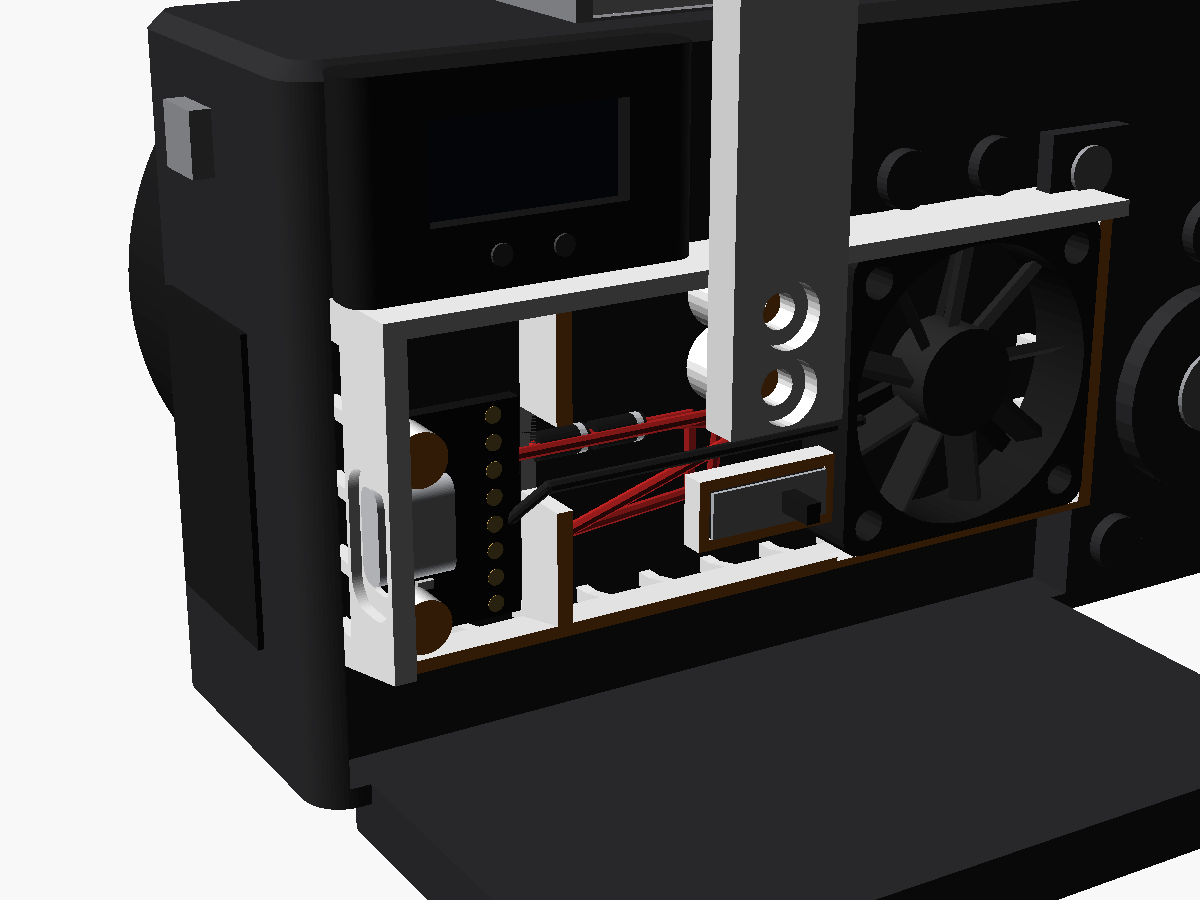
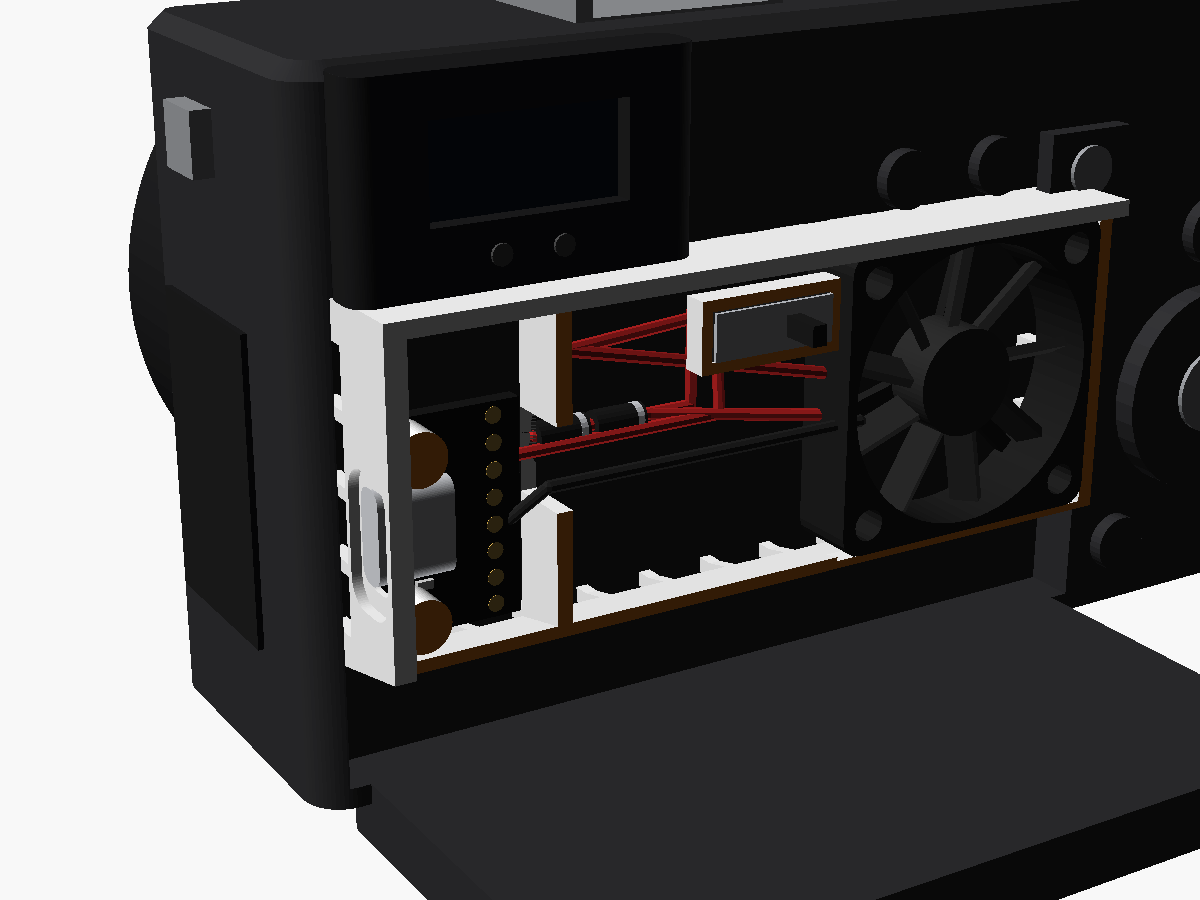
Sony a6300 fan box: switch into the uncovered top band, arm mount optional
The tilted screen covers the lower front, so the slide switch moves up into
the top band left of the fan. The arm's screw bosses are off by default
(the screen clamps the box for now); the arm file turns them on and warns
that they collide with the switch. HANDOFF.md: insertion is sideways or with
the screen down, one-piece slide-in ruled out.

Changed region(s): [[0.4625, 0.0, 0.74, 0.6222], [0.4625, 0.4667, 0.4933, 0.4978]]

diff --git a/sony-a6300-fan/HANDOFF.md b/sony-a6300-fan/HANDOFF.md
@@ -32,11 +32,9 @@ It needs 5 V from USB-C and has Low / Off / High.
    screen, open at both sides. The renders don't show this: `a6300-camera.scad` draws the screen flipped flat
    because its linkage isn't modelled.
    Consequences:
-   - **Switch.** It sits low on the front next to the fan (`sw_zc = 11`), where the screen hides it. It must
-     move: to the left side (cable side), or into the top band.
-     - The left side is out with the current USB-C board: the Adafruit 4090 is 20.3 mm tall and the
-       switch needs about 15 mm more.
-     - So the left side needs a smaller board with the connector on its short edge and 5.1 kΩ on CC1/CC2.
+   - **Switch.** Moved into the top band, left of the fan, 7 mm below the top (`sw_from_top`). There the
+     screen doesn't cover it, and it is about 7 mm right of the eyepiece's edge. Check on the camera that a
+     finger reaches it without touching the eyepiece cup.
    - **Fan intake.** Only the top ~13 mm of the grille is in free air. The rest draws through the wedge under
      the screen. Airflow will be lower than the fan's rating, by an unknown amount. Keep the grille above
      the line where the screen rests.
@@ -46,22 +44,21 @@ It needs 5 V from USB-C and has Low / Off / High.
    than 5.2 mm from the plate: on the right end and along the bottom. Keep them away from the wedge under
    the screen so the fan doesn't pull its own warm air back in.
 3. **Holding it on the camera is not settled.**
+   - **The screen limits how the box goes in.** In the photos the screen is tilted up as far as it goes, and
+     that still doesn't leave room to push the box straight toward the plate. So the box goes in sideways
+     or with the screen down. Once it's in, flip the screen up and it clamps the box.
    - **Current plan, no holder:** the tilted-up screen presses the box against the plate, and the recess
-     walls and the eyepiece stop it moving sideways and up. That means shooting with the screen up.
+     walls and the eyepiece stop it moving sideways and up. You shoot with the screen up. The arm's screw
+     bosses are off (`arm_mount = false`).
      - **Risk:** it falls out when the screen is moved.
      - **Cheap backup:** a thin micro-suction or removable adhesive pad on the box's back feet, or a cord
        to a strap lug.
    - **Option: screwed shoe arm** (`sony-a6300-fan-arm.scad`). The foot goes in the flash shoe, a bridge
-     runs over the top, and a tab screws to the box's front in the top band (2 × M3 into heat-set inserts).
-     It works, but it's two parts and screws.
-   - **Option, not built yet: one-piece slide-in.** The arm is part of the box: the front plate continues
-     up as a flat strip, then a bridge and a foot.
-     - **How it goes on:** the shoe and the recess are entered in the same direction. Push the whole thing
-       toward the lens; the foot slides into the shoe as the box seats on the plate, and the plate is the
-       stop.
-     - **Printing:** front face down, arm flat on the bed, bridge rising as a column. The foot needs a 45°
-       lead-in. The bridge's layers run across its load, so make it thick (about 12 × 6).
-     - **Needs checking:** that the screen can be held out of the way while sliding it in.
+     runs over the top, and a tab screws to the box's front in the top band. The arm file turns the
+     bosses on, but they collide with the switch's new spot (the file warns). One of them must move first.
+   - **Ruled out: a one-piece slide-in** (arm built into the box, pushed toward the lens so the foot enters
+     the shoe as the box seats). The screen can't get far enough out of the way. A one-piece holder would
+     need a sideways entry, e.g. a dovetail.
 4. **Positions read from photos are ±2 mm.** Shoe centre ~41 mm from the eyepiece-side end, flash and MENU
    buttons ~62 and ~73 mm, recess right edge ~87 mm. They matter for the arm only.
 5. **Fan noise and airflow aren't verified.**
@@ -89,9 +86,8 @@ Render with the CI image (see the repo's AGENTS.md). Preview mode (no `--render`
 
 1. Model the screen in its shooting position: a keep-out solid from the cardboard test, or the real linkage
    (hinge positions and arm length, 5 caliper numbers). Make the scene check that nothing sits behind it.
-2. Move the outlets out of the recess and keep the grille above the screen line. Then move the switch:
-   left side with a smaller USB-C board, or the top band.
+2. Move the outlets out of the recess and keep the grille above the screen line.
 3. Print the fit-test shell; check the fit and that the screen holds it.
-4. Decide on holding: no holder plus a backup pad, the screwed arm, or the one-piece slide-in.
+4. Decide on holding: no holder plus a backup pad, or the screwed arm (move the switch or the bosses).
 5. Print the box, wire it, and test: 4K, Auto Pwr OFF Temp = High, dummy battery. Log the time to the overheat
    warning with and without the fan, at the same room temperature.

diff --git a/sony-a6300-fan/README.md b/sony-a6300-fan/README.md
@@ -7,8 +7,8 @@ shoe, holds it. The box size comes from a cardboard test on the real camera; the
 caliper readings and photos (±2 mm). **Not printed yet.**
 
 **Status and known problems: see [HANDOFF.md](HANDOFF.md).** In short: the tilted screen covers the lower front
-(the switch is currently placed there and has to move), the exhaust slots mostly face the recess walls, and how
-the box is held is open (current plan: the screen pressing it in place).
+(the switch now sits above it, in the top band), the exhaust slots mostly face the recess walls, and how
+the box is held is open (current plan: the tilted-up screen clamps it in place).
 
 | On the camera | Inside (front cut away) | Side | Arm and shoe |
 |---|---|---|---|
@@ -30,7 +30,7 @@ the box is held is open (current plan: the screen pressing it in place).
 | Fan, ball-bearing alternative | GDSTIME 3007 5V dual ball (Amazon) | 30 × 30 × 7 | 9000 rpm, 4.1 CFM, "25 dBA ±10 %", 0.15 A. Longest life, but more bearing tick and hum |
 | Fan, best (if you find it) | Sunon MF30060V2-1000U-A99 | 30 × 30 × 6.5, fits the same box | 3.7 CFM at 15.7 dB(A). Distributors only (DigiKey, Mouser), often out of stock |
 | USB-C | **Adafruit 4090**, "USB Type C Breakout Board – Downstream Connection" | PCB 20.32 × 13.97 × 1.6, connector centred on the long edge, 2 × Ø2.5 holes 15.24 apart, 2.54 in from the connector edge | Numbers from Adafruit's Eagle board file. 5.1 kΩ on CC1 and CC2 (R1, R2), so C-to-C chargers give 5 V. Solder the wires to VBUS/GND, no header |
-| Switch | **SS13D07 mini slide switch, 1P3T** (3 positions, "L4" = 4 mm knob), e.g. XKB SS13D07L4B | Body 12.7 × 4.5 × 4.7, knob 4 mm, 2 mm per step | Sits in a printed cradle behind the front face, low and just left of the fan, and slides sideways; the knob pokes ~2.4 mm out. L and H engraved beside the slot |
+| Switch | **SS13D07 mini slide switch, 1P3T** (3 positions, "L4" = 4 mm knob), e.g. XKB SS13D07L4B | Body 12.7 × 4.5 × 4.7, knob 4 mm, 2 mm per step | Sits in a printed cradle behind the front face, in the top band just left of the fan, and slides sideways; the knob pokes ~2.4 mm out. L and H engraved beside the slot |
 | Low-speed diodes | 2 × 1N4001 (or 1N4007) | DO-41, 5 × 2.7 mm | ~0.8 V drop each, nearly independent of current, so the fan still starts on Low |
 | Fixing | 2 printed pins through the board holes (heat-staked), or M2.5 screws into the posts | | |
 
@@ -61,9 +61,8 @@ Tools: soldering iron, calipers, M3 tap or screwdriver.
 
     front (operator side)
       ┌──────┬────────────┬───────────┐
-      │      │     ◉ ◉ ←arm tab        │   arm screws in the top band
+      │      │     L◦H    │           │   switch in the top band, next to the fan
     ▭─┤ bay  │  chamber   │  ( fan )  │   USB-C out of the left wall; fan top right, blowing onto the plate
-      │      │      L◦H   │           │   switch low, next to the fan (away from the eyepiece)
       └──────┴────────────┴───────────┘   bottom bevelled from 0 at the plate to 3 mm at the front
     back edge of all 4 walls: ribbed exhaust band, as tall as the fan-to-plate gap
 
@@ -90,8 +89,8 @@ Tools: soldering iron, calipers, M3 tap or screwdriver.
   the screen back, to the right toward the buttons, and left through the bay. None of it goes back into the intake.
 - **USB-C:** the board stands parallel to the front face on two posts from the front wall. Outside, the left wall is
   counterbored down to 0.6 mm around the opening so the plug's overmold sits in it and the plug reaches full depth.
-- **Switch:** in the front face just left of the fan, low down, so your finger stays away from the eyepiece and its
-  rubber cup, and below the arm's screws. The knob sticks out ~2.4 mm.
+- **Switch:** in the front face just left of the fan, in the top band the tilted screen never covers, about 7 mm
+  below the top and 7 mm right of the eyepiece's edge. The knob sticks out ~2.4 mm.
 - **Eye sensor:** it sits on the eyepiece, right above the box. Set *FINDER/MONITOR → Monitor (manual)*.
 - **Mounting: shoe arm** ([sony-a6300-fan-arm.scad](sony-a6300-fan-arm.scad), [close-up](scene-mount.png)).
   A foot (ISO 518, 18.4 × 16 × 1.9 mm) slides into the camera's shoe from the back, a bridge crosses the top
